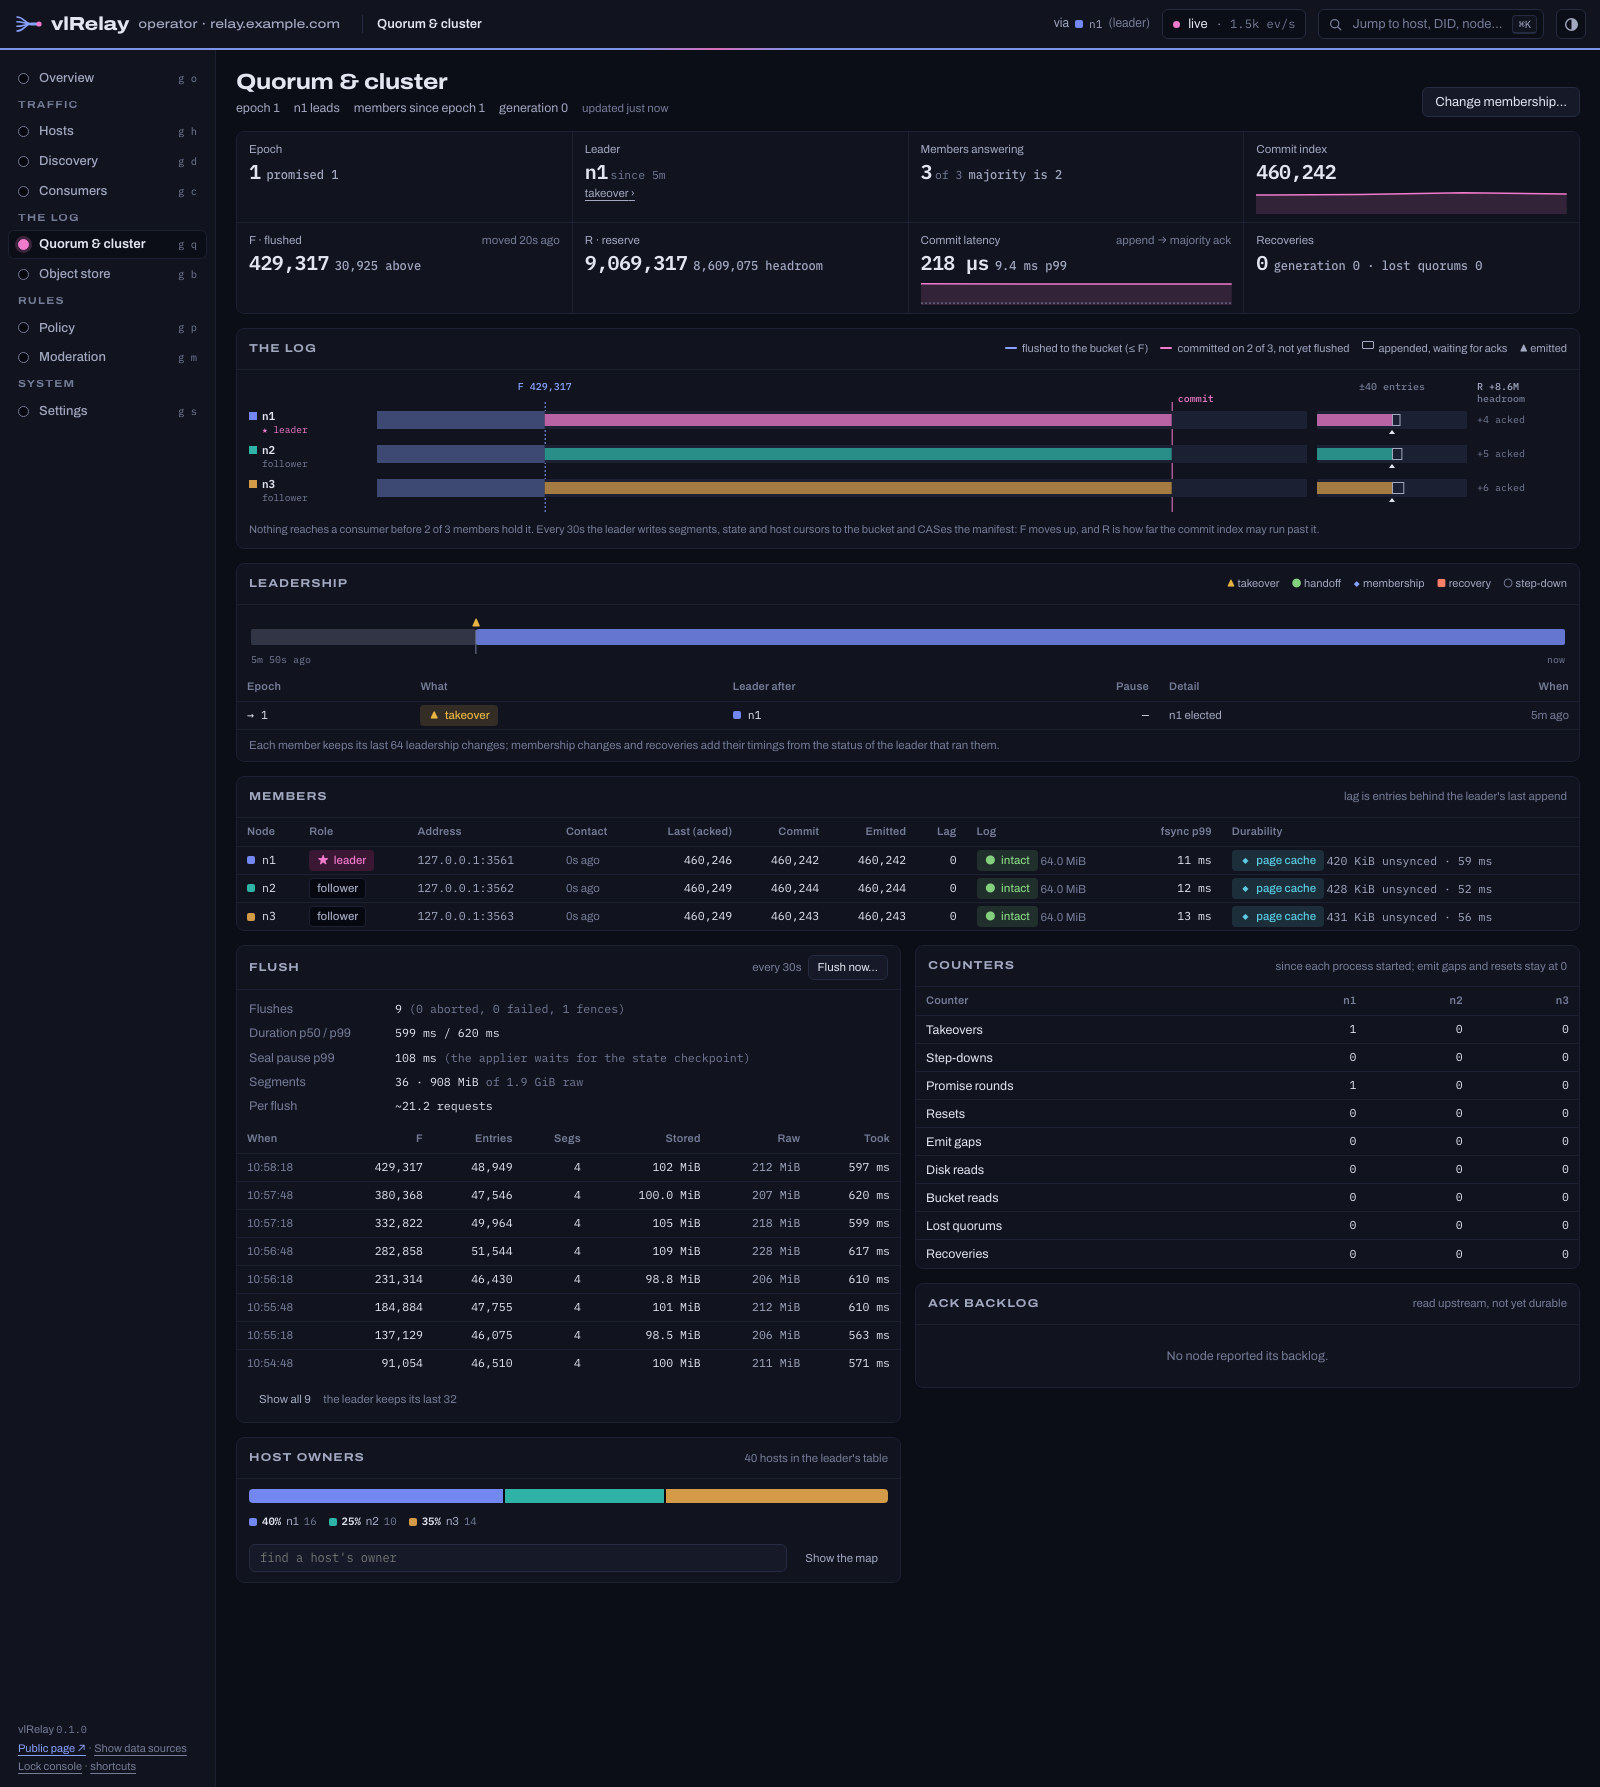
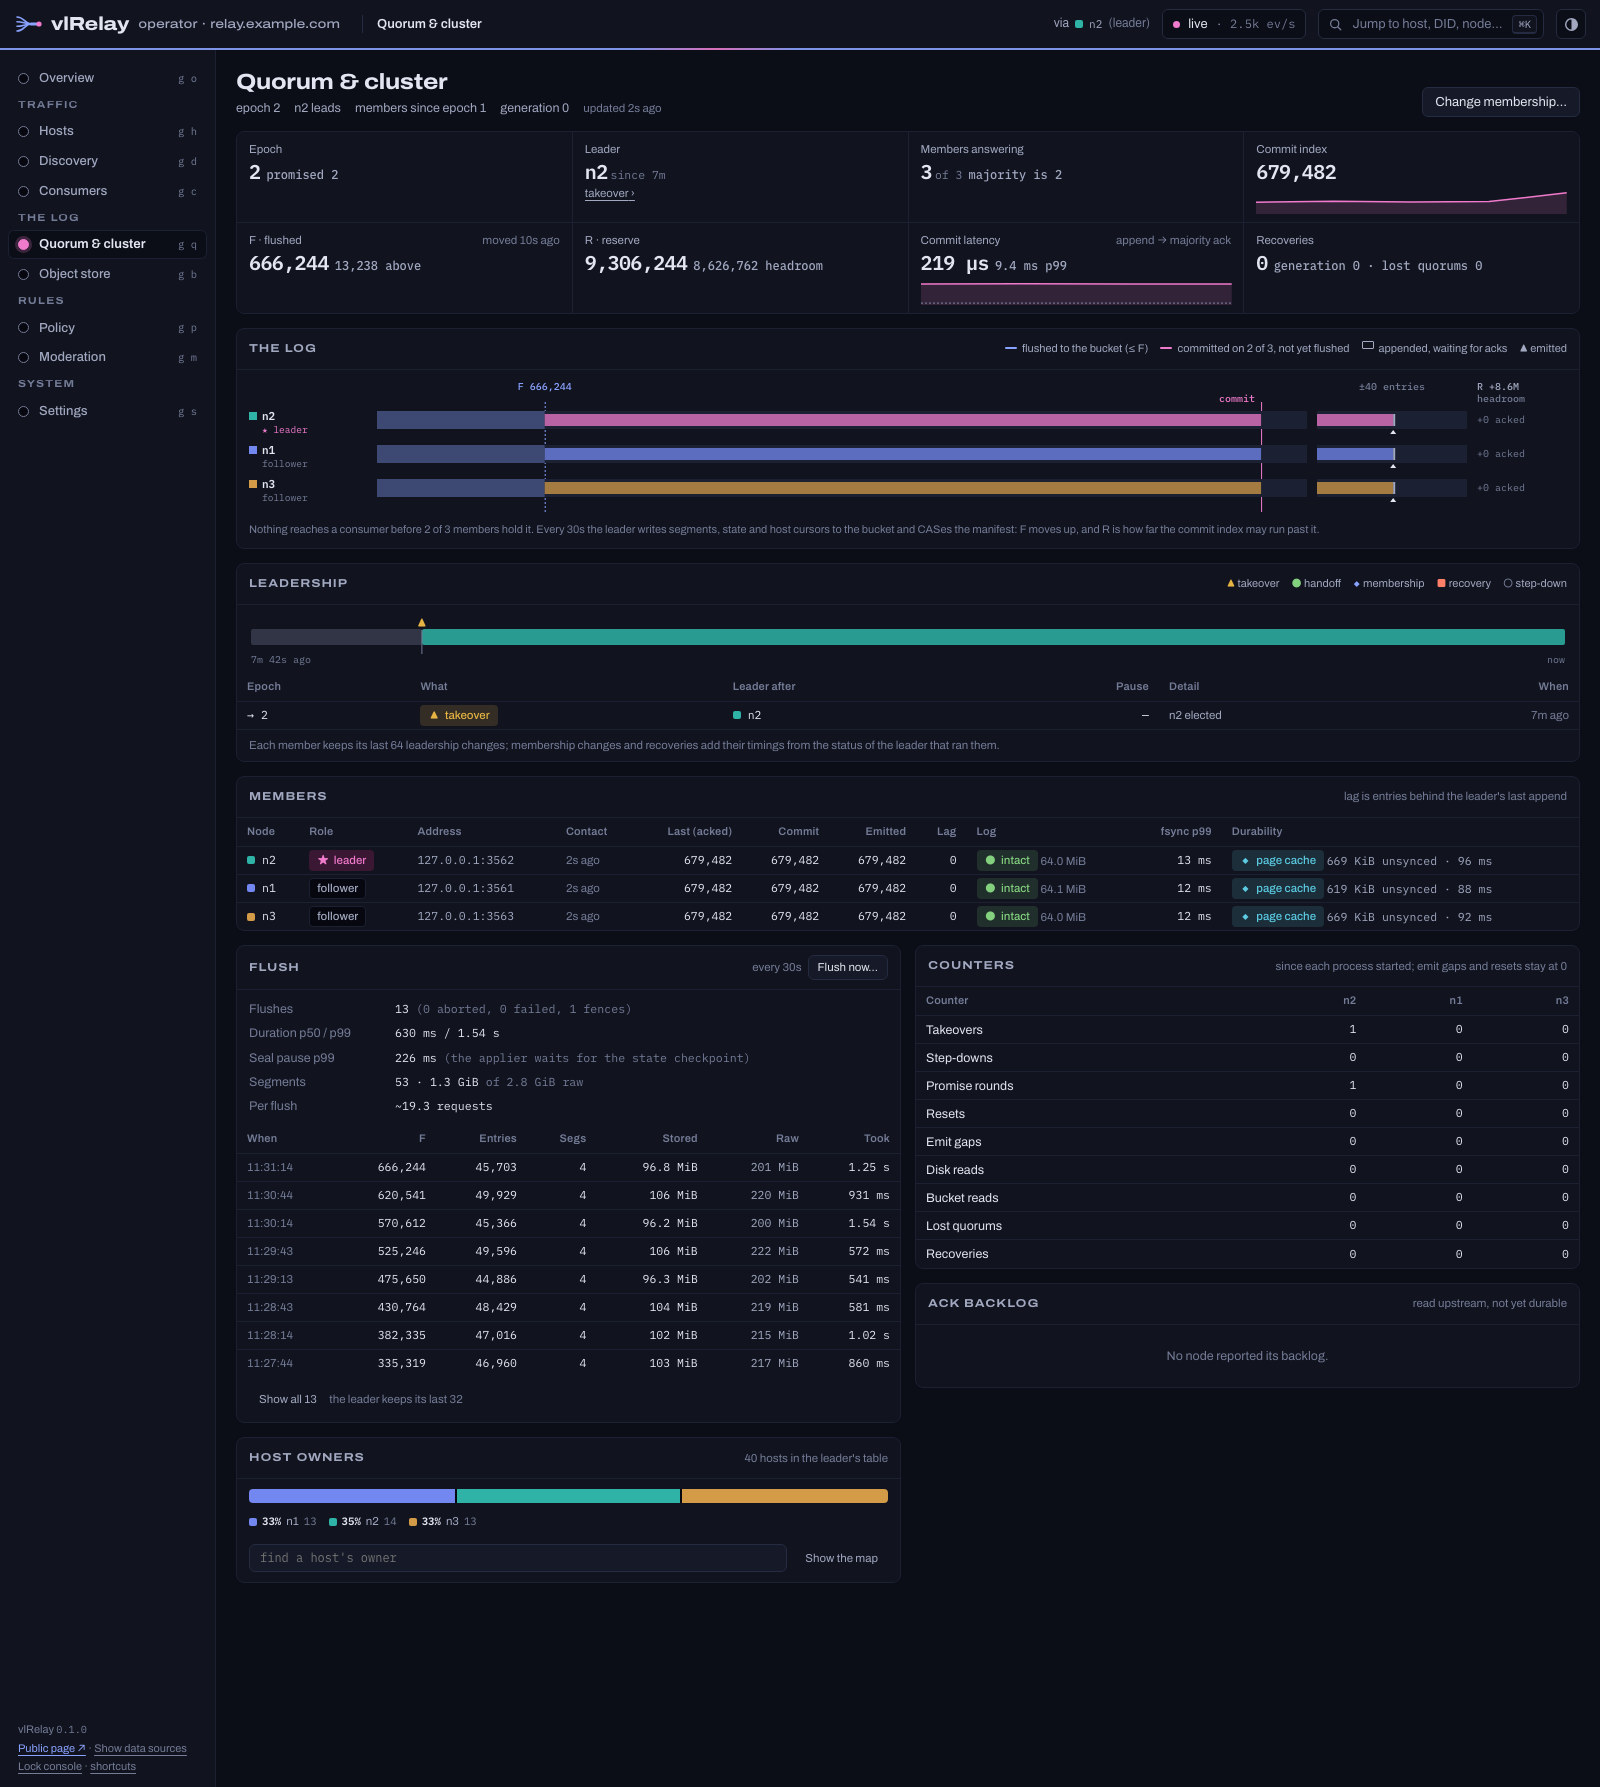
vlrelay docs: retake the screenshots on the fixed console
The public page is retaken from the production relay (one node, the
live network, ~3,300 PDSes) with its host name shown as
relay.example.com, as the public export rewrites it. The console shots
(overview, hosts, quorum) are the local three-node fakepds cluster on
main's fixed console after a leader takeover, ported from the old
mac/vlrelay-shots-2 retake with its captions; the production console
is tailnet-only.

Mono-Commit: f6ed37b62aacf2a86dd91d23d942e8d090bfb443

diff --git a/README.md b/README.md
@@ -4,7 +4,7 @@ vlRelay is an atproto relay on a replicated log. It subscribes to PDSes, checks 
 against sync 1.1, and serves one combined firehose from one node or three, with an S3, R2, GCS or
 MinIO bucket as its long-term copy.
 
-![The operator console's overview on a local three-node cluster with fake accounts: n1 leads, with firehose rate, time to firehose, quorum and flush health, rejects, the PDS streams n1 reads flowing to the leader, and consumers](docs/assets/dashboard-real-overview.jpg)
+![The operator console's overview on a local three-node cluster with fake accounts: n2 leads, with firehose rate, time to firehose, quorum and flush health, rejects, each PDS stream flowing through the member that reads it to the leader, and consumers](docs/assets/dashboard-real-overview.jpg)
 
 It's built from the parts of [vlpds](https://github.com/jazware/vlpds) that worked, now crates both
 build on, [vlsync](https://github.com/jazware/vlsync) and [vlatproto](https://github.com/jazware/vlatproto):
@@ -54,19 +54,21 @@ its log segments, firehose serving and SlateDB state, and its atproto code. Cons
 The screenshots here come from a local three-node cluster (a leader and two followers) reading a
 `fakepds` fleet of 40 fake PDSes with ~12,000 fake accounts and its own PLC, at ~1.5k events/s.
 [Load fleet](docs/loadfleet.md) shows how to run one. Two of the hosts send a few bad signatures
-on purpose, so there are rejects. The hosts page, busiest first:
+on purpose. The leader was killed with `kill -9` half a minute in, so n2 took over and n1 came back and
+got its share of the hosts again. The hosts page, busiest first:
 
-![The hosts page on the local cluster: the fake PDSes n1 reads, by events per second, with tiers, error rates, account counts and read lag](docs/assets/dashboard-hosts.jpg)
+![The hosts page on the local cluster: the fake PDSes n2 reads, by events per second, with tiers, error rates, account counts and read lag](docs/assets/dashboard-hosts.jpg)
 
-The public page on the same cluster:
+The public page is from a production relay instead, one node reading the live network from about
+3,300 PDSes, with its host name shown as relay.example.com:
 
-![The public page: the relay's host name, how to subscribe to the firehose, live events in and out, time to firehose, connected hosts and consumers, and node and quorum health](docs/assets/dashboard-public-dark.jpg)
+![The public page on a production relay: its host name, how to subscribe to the firehose, live events in and out, time to firehose, connected hosts and consumers, and node and quorum health](docs/assets/dashboard-public-dark.jpg)
 
 The console's quorum and cluster page, with each member's acked, committed and emitted seq, the
 flush point F and reserve R, leadership changes, bucket recoveries and which member reads each
 host:
 
-![The quorum and cluster page on the local cluster: epoch, leader, members answering, commit index, F and R, each member's log, the election that made n1 leader, per-member lag and durability, flushes, counters and host owners](docs/assets/dashboard-quorum-dark.jpg)
+![The quorum and cluster page on the local cluster: epoch, leader, members answering, commit index, F and R, each member's log, the takeover that made n2 leader, per-member lag and durability, flushes, counters and host owners](docs/assets/dashboard-quorum-dark.jpg)
 
 ## Quickstart
 

diff --git a/docs/shadow.md b/docs/shadow.md
@@ -328,8 +328,8 @@ Not a vlRelay bug: eurosky's migration `#sync`
 ## Dashboard screenshots
 
 The run's screenshots were of the earlier designs' dashboard, and they've left the repository
-with it. The README's screenshots are today's console on a local three-node cluster reading a
-[`fakepds`](loadfleet.md) fleet.
+with it. The README's console screenshots are today's console on a local three-node cluster
+reading a [`fakepds`](loadfleet.md) fleet, and its public page is a production relay's.
 
 ## Running one yourself
 
